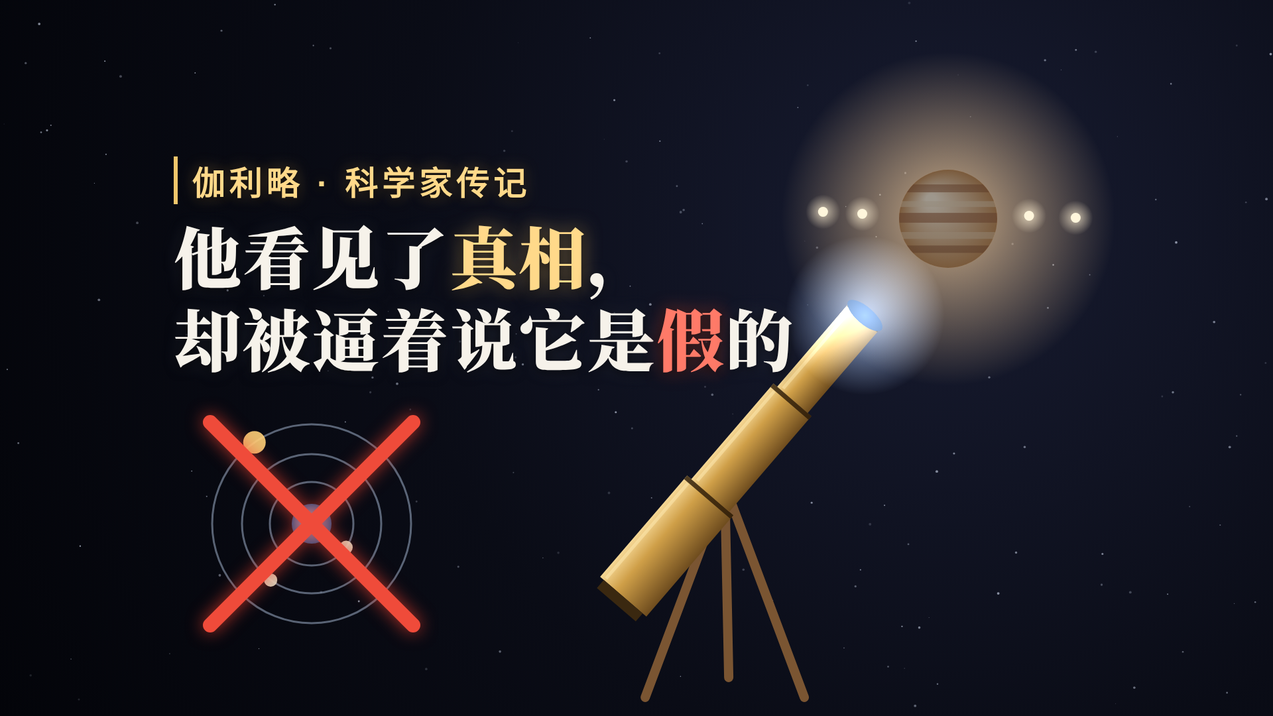
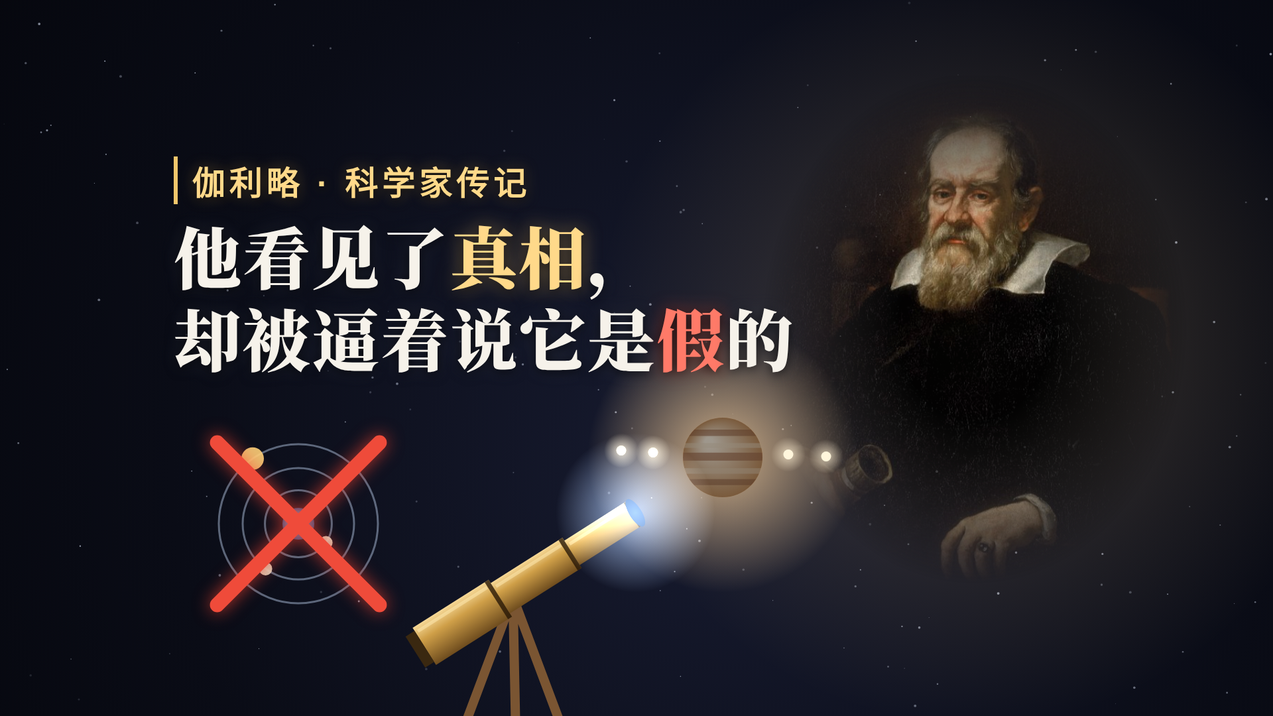
伽利略封面：加入伽利略肖像（羽化融入夜空），望远镜和木星改到画面中下方
Claude-Session: https://claude.ai/code/session_0132uwgTMMsd29jtkxBXZP3f

Changed region(s): [[0.1532, 0.0922, 0.9191, 1.0], [0.7353, 0.676, 0.8272, 0.7989], [0.6127, 0.8911, 0.6434, 0.9832]]

diff --git a/ws/kit/video-kit/cover/cover_gl.html b/ws/kit/video-kit/cover/cover_gl.html
@@ -25,11 +25,22 @@ var V = location.hash === '#dy'; document.body.className = V ? 'v' : 'w';
 var W = V ? 1080 : 1920, H = V ? 1440 : 1080, cv = document.getElementById('cv'); cv.width = W; cv.height = H;
 var g = cv.getContext('2d'), TAU = Math.PI * 2;
 function rng(s) { return function () { s |= 0; s = s + 0x6D2B79F5 | 0; var t = Math.imul(s ^ s >>> 15, 1 | s); t = t + Math.imul(t ^ t >>> 7, 61 | t) ^ t; return ((t ^ t >>> 14) >>> 0) / 4294967296; }; }
-var JX = V ? 760 : 1430, JY = V ? 760 : 330, JR = V ? 70 : 74;                 // Jupiter
-var TX0 = V ? 470 : 940, TY0 = V ? 1190 : 900;                                // telescope eyepiece end
+var JX = V ? 300 : 1090, JY = V ? 700 : 690, JR = V ? 56 : 60;                 // Jupiter
+var TX0 = V ? 150 : 640, TY0 = V ? 1330 : 975;                                // telescope eyepiece end
 // background
 var bg = g.createRadialGradient(JX, JY, 30, JX, JY, Math.max(W, H) * 0.85); bg.addColorStop(0, '#171b30'); bg.addColorStop(0.5, '#0a0c16'); bg.addColorStop(1, '#030409'); g.fillStyle = bg; g.fillRect(0, 0, W, H);
 var Rn = rng(7); for (var i = 0; i < 170; i++) { g.fillStyle = 'rgba(225,235,255,' + (0.12 + Rn() * 0.5).toFixed(2) + ')'; g.beginPath(); g.arc(Rn() * W, Rn() * H, 0.5 + Rn() * 1.5, 0, TAU); g.fill(); }
+var PIMG = new Image();
+function drawPortrait() {
+  var pw = V ? 540 : 640, ph = pw * PIMG.height / PIMG.width, px = V ? 650 : 1470, py = V ? 900 : 520, o = document.createElement('canvas'); o.width = Math.round(pw); o.height = Math.round(ph); var q = o.getContext('2d');
+  q.filter = 'brightness(0.92) saturate(0.88) contrast(1.04)'; q.drawImage(PIMG, 0, 0, o.width, o.height); q.filter = 'none'; q.globalCompositeOperation = 'destination-in';
+  q.save(); q.translate(o.width / 2, o.height * 0.47); q.scale(1, ph / pw * 0.95); var fg = q.createRadialGradient(0, 0, pw * 0.18, 0, 0, pw * 0.5); fg.addColorStop(0, 'rgba(0,0,0,1)'); fg.addColorStop(1, 'rgba(0,0,0,0)'); q.fillStyle = fg; q.fillRect(-pw, -pw, pw * 2, pw * 2); q.restore();
+  var wg = g.createRadialGradient(px, py, 40, px, py, pw * 0.9); wg.addColorStop(0, 'rgba(242,198,107,0.20)'); wg.addColorStop(1, 'rgba(242,198,107,0)'); g.fillStyle = wg; g.fillRect(0, 0, W, H);
+  g.save(); g.globalCompositeOperation = 'destination-over'; g.restore();
+  g.globalAlpha = 0.95; g.drawImage(o, px - o.width / 2, py - o.height / 2); g.globalAlpha = 1;
+}
+function MAIN() {
+drawPortrait();
 // the beam of light from Jupiter down the tube
 var ang = Math.atan2(JY - TY0, JX - TX0), LEN = Math.hypot(JX - TX0, JY - TY0) - JR * 2.6;
 g.save(); g.globalCompositeOperation = 'lighter';
@@ -41,7 +52,7 @@ g.save(); g.beginPath(); g.arc(JX, JY, JR, 0, TAU); g.clip();
 var gr = g.createRadialGradient(JX - JR * 0.35, JY - JR * 0.4, JR * 0.1, JX, JY, JR); gr.addColorStop(0, '#fff3dc'); gr.addColorStop(1, '#c4915a'); g.fillStyle = gr; g.fillRect(JX - JR, JY - JR, JR * 2, JR * 2);
 [[-0.62, 0.16, 'rgba(150,96,60,0.55)'], [-0.3, 0.12, 'rgba(240,222,190,0.5)'], [-0.02, 0.2, 'rgba(158,104,66,0.6)'], [0.34, 0.14, 'rgba(236,214,180,0.5)'], [0.62, 0.15, 'rgba(140,90,56,0.5)']].forEach(function (b) { g.fillStyle = b[2]; g.fillRect(JX - JR, JY + b[0] * JR - b[1] * JR / 2, JR * 2, b[1] * JR); });
 var sh = g.createRadialGradient(JX - JR * 0.5, JY - JR * 0.5, JR * 0.4, JX, JY, JR * 1.05); sh.addColorStop(0, 'rgba(0,0,0,0)'); sh.addColorStop(1, 'rgba(0,0,10,0.38)'); g.fillStyle = sh; g.fillRect(JX - JR, JY - JR, JR * 2, JR * 2); g.restore();
-var mc = ['#ffe9b8', '#cfe3ff', '#ffd2a0', '#e8d9ff'], mo = [-2.55, -1.75, 1.65, 2.6];
+var mo0 = 0; var mc = ['#ffe9b8', '#cfe3ff', '#ffd2a0', '#e8d9ff'], mo = [-2.55, -1.75, 1.65, 2.6];
 for (i = 0; i < 4; i++) { var mx = JX + mo[i] * JR, my = JY - 6 + (i - 1.5) * 3; var mg = g.createRadialGradient(mx, my, 0, mx, my, 26); mg.addColorStop(0, mc[i]); mg.addColorStop(0.25, 'rgba(255,240,210,0.55)'); mg.addColorStop(1, 'rgba(255,240,210,0)'); g.fillStyle = mg; g.beginPath(); g.arc(mx, my, 26, 0, TAU); g.fill(); g.fillStyle = '#fff6dc'; g.beginPath(); g.arc(mx, my, 7.5, 0, TAU); g.fill(); }
 // tripod
 var mid = { x: TX0 + Math.cos(ang) * LEN * 0.42, y: TY0 + Math.sin(ang) * LEN * 0.42 };
@@ -49,7 +60,7 @@ g.strokeStyle = '#7a5532'; g.lineCap = 'round'; g.lineWidth = 14;
 g.beginPath(); g.moveTo(mid.x, mid.y + 10); g.lineTo(mid.x - 120, mid.y + 330); g.moveTo(mid.x, mid.y + 10); g.lineTo(mid.x + 120, mid.y + 330); g.moveTo(mid.x, mid.y + 10); g.lineTo(mid.x + 6, mid.y + 300); g.stroke();
 // brass telescope: three telescoping segments with gilt rings
 g.save(); g.translate(TX0, TY0); g.rotate(ang);
-var segs = [[0, 0.36, 1.0], [0.36, 0.7, 0.82], [0.7, 1.0, 0.66]], TH = V ? 78 : 92;
+var segs = [[0, 0.36, 1.0], [0.36, 0.7, 0.82], [0.7, 1.0, 0.66]], TH = V ? 64 : 66;
 segs.forEach(function (s) {
   var x0 = s[0] * LEN, x1 = s[1] * LEN, t = TH * s[2], gg = g.createLinearGradient(0, -t / 2, 0, t / 2);
   gg.addColorStop(0, '#f6d896'); gg.addColorStop(0.35, '#cf9f48'); gg.addColorStop(1, '#6e4c1e'); g.fillStyle = gg; g.fillRect(x0, -t / 2, x1 - x0, t);
@@ -61,7 +72,7 @@ g.restore();
 var lg = g.createRadialGradient(TX0 + Math.cos(ang) * LEN, TY0 + Math.sin(ang) * LEN, 0, TX0 + Math.cos(ang) * LEN, TY0 + Math.sin(ang) * LEN, 120); lg.addColorStop(0, 'rgba(190,220,255,0.75)'); lg.addColorStop(1, 'rgba(190,220,255,0)');
 g.save(); g.globalCompositeOperation = 'lighter'; g.fillStyle = lg; g.beginPath(); g.arc(TX0 + Math.cos(ang) * LEN, TY0 + Math.sin(ang) * LEN, 120, 0, TAU); g.fill(); g.restore();
 // the old picture: Earth in the centre, everything circling it -- struck through
-var DX = V ? 215 : 470, DY = V ? 1275 : 790, DR = V ? 95 : 150;
+var DX = V ? 880 : 450, DY = V ? 1290 : 790, DR = V ? 90 : 120;
 g.save(); g.globalAlpha = 0.9;
 g.strokeStyle = 'rgba(190,210,240,0.5)'; g.lineWidth = 3; [0.42, 0.7, 1.0].forEach(function (k) { g.beginPath(); g.arc(DX, DY, DR * k, 0, TAU); g.stroke(); });
 var eg = g.createRadialGradient(DX - 6, DY - 6, 2, DX, DY, DR * 0.2); eg.addColorStop(0, '#7fc4ff'); eg.addColorStop(1, '#1f5d9c'); g.fillStyle = eg; g.beginPath(); g.arc(DX, DY, DR * 0.2, 0, TAU); g.fill();
@@ -69,4 +80,6 @@ var eg = g.createRadialGradient(DX - 6, DY - 6, 2, DX, DY, DR * 0.2); eg.addColo
 g.restore();
 g.strokeStyle = '#ef4b3a'; g.lineWidth = 22; g.lineCap = 'round'; g.shadowColor = 'rgba(255,70,50,0.7)'; g.shadowBlur = 26;
 g.beginPath(); g.moveTo(DX - DR * 1.02, DY - DR * 1.02); g.lineTo(DX + DR * 1.02, DY + DR * 1.02); g.moveTo(DX + DR * 1.02, DY - DR * 1.02); g.lineTo(DX - DR * 1.02, DY + DR * 1.02); g.stroke(); g.shadowBlur = 0;
+}
+PIMG.onload = MAIN; PIMG.src = 'portrait_gl.jpg';
 </script></body></html>
